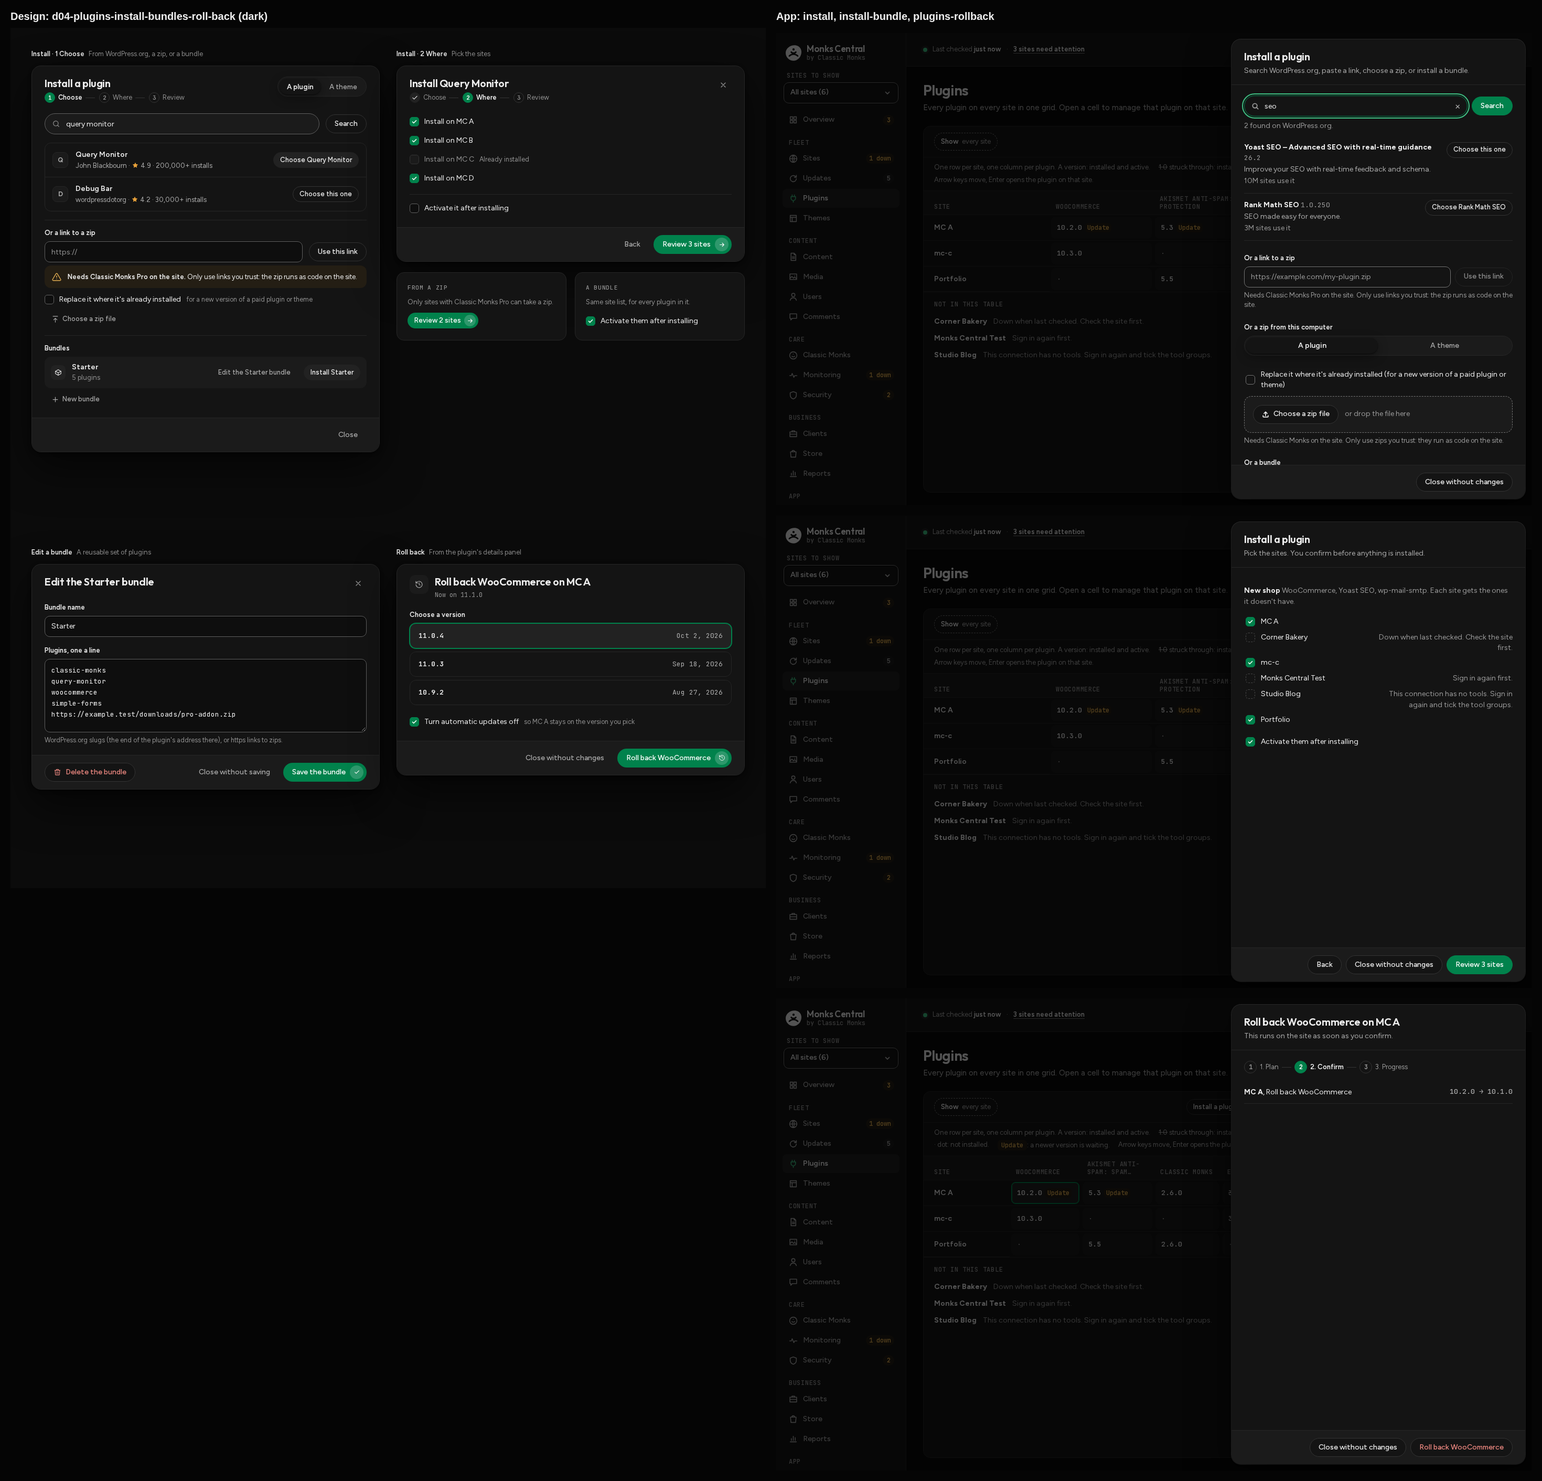
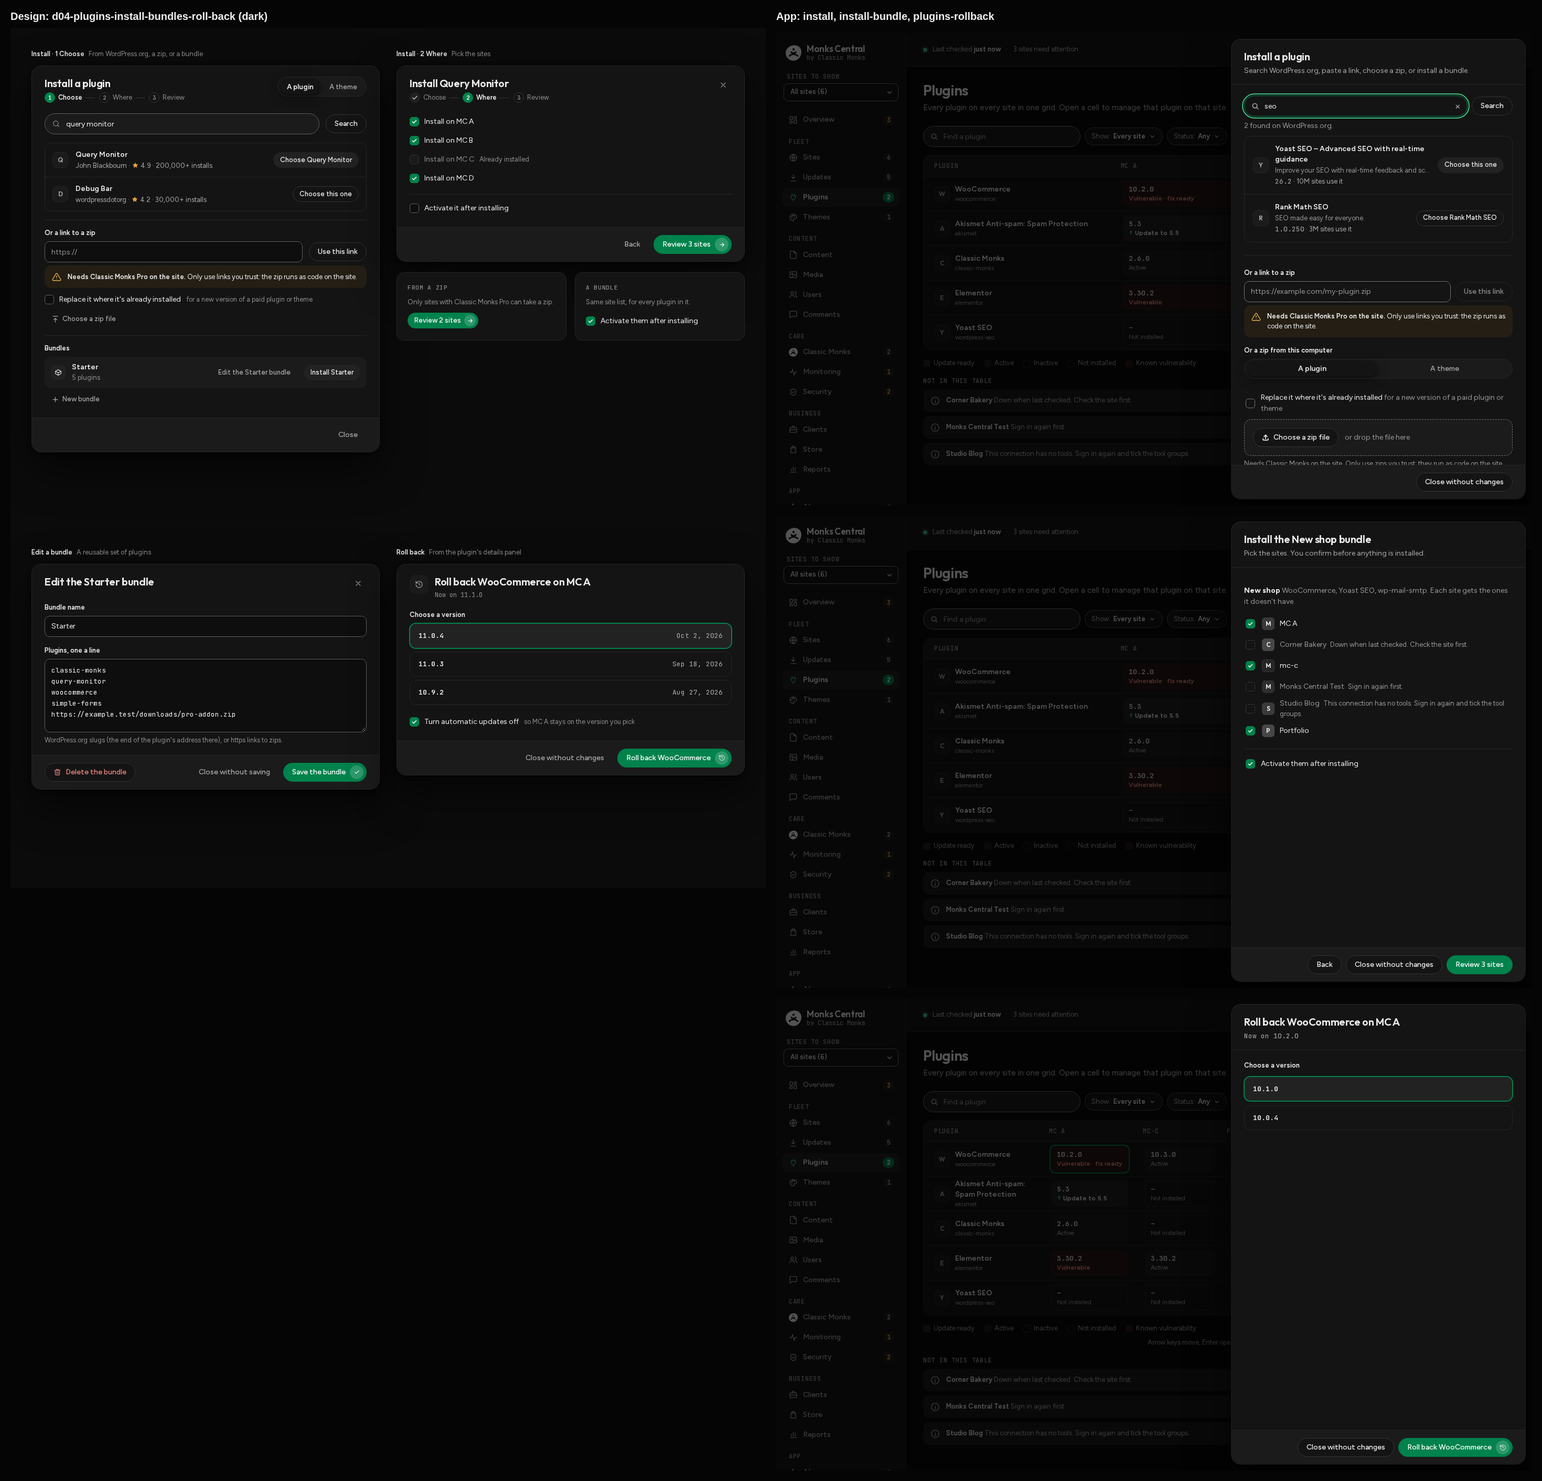
feat(ui): Install sheet contents like the design: result cards, warning note, bundle cards, site tiles

diff --git a/ui/src/screens/Install.tsx b/ui/src/screens/Install.tsx
@@ -1,10 +1,12 @@
 // SPDX-License-Identifier: GPL-3.0-or-later
 // Install a plugin from WordPress.org (search), a zip link, a zip on this computer
 // (plugin or theme, Classic Monks M8) or a bundle, on the sites you pick.
+import "../styles/screens/install.css";
 import { FilePicker, SearchInput } from "../components/controls";
 import { useEffect, useState } from "react";
 import { api, blocked, can, count, hasTool, type Bundle, type Found, type Site, type SiteInventory, type Staged } from "../api";
-import { Button } from "../components/ui";
+import { Button, Glyph } from "../components/ui";
+import { SiteTile } from "../components/SiteTile";
 import { toast } from "../components/feedback";
 import { Sheet } from "../components/Sheet";
 import type { PlanRow } from "../components/JobSheet";
@@ -105,8 +107,8 @@ function Bundles({ onPick }: { onPick: (b: Bundle) => void }) {
     setDeleting(false);
   };
   return (
-    <fieldset className="field" style={{ marginTop: 24 }}>
-      <legend>Or a bundle</legend>
+    <fieldset className="field">
+      <legend>Bundles</legend>
       {error && <p className="alert danger">{error}</p>}
       {editing ? (
         <>
@@ -120,29 +122,34 @@ function Bundles({ onPick }: { onPick: (b: Bundle) => void }) {
             <small>WordPress.org slugs (the end of the plugin's address there), or https links to zips.</small>
           </label>
           {deleting ? (
-            <div className="row">
+            <div className="row ins-acts">
               <span className="sum">Delete the {editing.name} bundle? Sites keep the plugins it installed.</span>
               <span className="grow" />
               <Button small onClick={() => setDeleting(false)}>
                 Keep it
               </Button>
               <Button small kind="danger" onClick={remove}>
+                <Glyph name="trash" />
                 Delete the bundle
               </Button>
             </div>
           ) : (
-            <div className="row">
+            <div className="row ins-acts">
               {editing.id > 0 && (
                 <Button small kind="danger" onClick={() => setDeleting(true)}>
+                  <Glyph name="trash" />
                   Delete the bundle
                 </Button>
               )}
               <span className="grow" />
-              <Button small onClick={() => setEditing(null)}>
+              <Button small className="ghost" onClick={() => setEditing(null)}>
                 Close without saving
               </Button>
-              <Button small kind="primary" disabled={!editing.name.trim() || !text.trim()} onClick={save}>
+              <Button small kind="primary" className="disc" disabled={!editing.name.trim() || !text.trim()} onClick={save}>
                 Save the bundle
+                <span className="btn-disc">
+                  <Glyph name="check" />
+                </span>
               </Button>
             </div>
           )}
@@ -150,24 +157,33 @@ function Bundles({ onPick }: { onPick: (b: Bundle) => void }) {
       ) : (
         <>
           {list.length === 0 && <p className="dim">A bundle installs several plugins in one go, like the ones every new shop gets.</p>}
-          <ul className="plain" aria-label="Bundles">
+          <ul className="ins-bundles" aria-label="Bundles">
             {list.map((b) => (
-              <li key={b.id} className="row">
-                <span className="grow">
-                  <b>{b.name}</b> <span className="dim">{b.plugins.map((p) => p.name || p.source.split("/").pop()).join(", ")}</span>
+              <li key={b.id}>
+                <span className="tile sm" aria-hidden="true">
+                  <Glyph name="package" />
                 </span>
-                <Button small aria-label={`Edit the ${b.name} bundle`} onClick={() => edit(b)}>
-                  Edit
+                <span className="grow">
+                  <b>{b.name}</b>
+                  <small>
+                    {b.plugins.length === 1 ? "1 plugin" : `${b.plugins.length} plugins`}: {b.plugins.map((p) => p.name || p.source.split("/").pop()).join(", ")}
+                  </small>
+                </span>
+                <Button small className="ghost" onClick={() => edit(b)}>
+                  Edit the {b.name} bundle
                 </Button>
-                <Button small onClick={() => onPick(b)}>
+                <Button small kind="soft" onClick={() => onPick(b)}>
                   Install {b.name}
                 </Button>
               </li>
             ))}
           </ul>
-          <Button small onClick={() => edit({ id: 0, name: "", plugins: [] })}>
-            New bundle
-          </Button>
+          <div>
+            <Button small className="ghost" onClick={() => edit({ id: 0, name: "", plugins: [] })}>
+              <Glyph name="plus" />
+              New bundle
+            </Button>
+          </div>
         </>
       )}
     </fieldset>
@@ -260,7 +276,7 @@ export function Install({ sites, inventory, onClose, onPlan }: Props) {
 
   return (
     <Sheet
-      title="Install a plugin"
+      title={pick ? (pick.bundle ? `Install the ${pick.name} bundle` : `Install ${pick.name}`) : "Install a plugin"}
       intro={pick ? "Pick the sites. You confirm before anything is installed." : "Search WordPress.org, paste a link, choose a zip, or install a bundle."}
       onClose={onClose}
       footer={
@@ -296,7 +312,7 @@ export function Install({ sites, inventory, onClose, onPlan }: Props) {
               value={query}
               onChange={(e) => setQuery(e.target.value)}
             />
-            <Button kind="primary" type="submit" disabled={searching || query.trim().length < 2}>
+            <Button type="submit" disabled={searching || query.trim().length < 2}>
               {searching ? "Searching…" : "Search"}
             </Button>
           </form>
@@ -304,22 +320,30 @@ export function Install({ sites, inventory, onClose, onPlan }: Props) {
             {found && `${found.length === 0 ? "Nothing found." : `${found.length} found on WordPress.org.`}`}
           </div>
           {found && found.length > 0 && (
-            <ul className="found" aria-label="Plugins found">
-              {found.map((f) => (
+            <ul className="ins-found" aria-label="Plugins found">
+              {found.map((f, i) => (
                 <li key={f.slug}>
-                  <div className="grow">
-                    <b>{f.name}</b> <span className="mono dim">{f.version}</span>
-                    <p>{f.summary}</p>
-                    <span className="dim">{count(f.active_installs)} sites use it</span>
-                  </div>
-                  <Button small onClick={() => choose({ source: f.slug, name: f.name, link: false })}>
+                  <span className="ptile" aria-hidden="true">
+                    {(f.name.match(/[\p{L}\p{N}]/u)?.[0] ?? "?").toUpperCase()}
+                  </span>
+                  <span className="grow">
+                    <b>{f.name}</b>
+                    <small className="cut" data-tip={f.summary}>
+                      {f.summary}
+                    </small>
+                    <small>
+                      <span className="mono">{f.version}</span> · <span>{count(f.active_installs)} sites use it</span>
+                    </small>
+                  </span>
+                  <Button small kind={i === 0 ? "soft" : undefined} onClick={() => choose({ source: f.slug, name: f.name, link: false })}>
                     Choose {f.name.length > 24 ? "this one" : f.name}
                   </Button>
                 </li>
               ))}
             </ul>
           )}
-          <label className="field" style={{ marginTop: 24 }}>
+          <hr className="ins-rule" />
+          <label className="field">
             <span>Or a link to a zip</span>
             <div className="row">
               <input
@@ -332,9 +356,14 @@ export function Install({ sites, inventory, onClose, onPlan }: Props) {
                 Use this link
               </Button>
             </div>
-            <small>Needs Classic Monks Pro on the site. Only use links you trust: the zip runs as code on the site.</small>
+            <span className="callout warning">
+              <Glyph name="alert" />
+              <span>
+                <b>Needs Classic Monks Pro on the site.</b> Only use links you trust: the zip runs as code on the site.
+              </span>
+            </span>
           </label>
-          <fieldset className="field" style={{ marginTop: 24 }}>
+          <fieldset className="field ins-zip">
             <legend>Or a zip from this computer</legend>
             <div className="segmented" role="group" aria-label="The zip holds">
               <button type="button" aria-pressed={zipKind === "plugin"} onClick={() => setZipKind("plugin")}>
@@ -346,11 +375,14 @@ export function Install({ sites, inventory, onClose, onPlan }: Props) {
             </div>
             <label className="row check">
               <input type="checkbox" checked={overwrite} onChange={(e) => setOverwrite(e.target.checked)} />
-              <span>Replace it where it's already installed (for a new version of a paid plugin or theme)</span>
+              <span>
+                Replace it where it's already installed <span className="dim">for a new version of a paid plugin or theme</span>
+              </span>
             </label>
             <FilePicker label="Choose a zip file" busy={reading ? "Reading the zip…" : undefined} accept=".zip,application/zip" disabled={reading} onFile={useZip} />
             <small>Needs Classic Monks on the site. Only use zips you trust: they run as code on the site.</small>
           </fieldset>
+          <hr className="ins-rule" />
           <Bundles onPick={(b) => choose({ bundle: b, name: b.name })} />
         </>
       ) : (
@@ -361,11 +393,11 @@ export function Install({ sites, inventory, onClose, onPlan }: Props) {
             {pick.zip && <span className="dim"> {pick.kind === "theme" ? "theme" : "plugin"}, {(pick.zip.size / 1048576).toFixed(1)} MB{pick.overwrite ? ", replaces an installed copy" : ""}</span>}
             {pick.bundle && <span className="dim"> {pick.bundle.plugins.map((p) => p.name || p.source).join(", ")}. Each site gets the ones it doesn't have.</span>}
           </p>
-          <ul className="plan-list" aria-label="Sites">
+          <ul className="ins-sites" aria-label="Sites">
             {sites.map((s) => {
               const why = cannot(s, inventory.get(s.id), pick);
               return (
-                <li key={s.id}>
+                <li key={s.id} className={why ? "no" : undefined}>
                   <button
                     type="button"
                     className="box"
@@ -382,13 +414,16 @@ export function Install({ sites, inventory, onClose, onPlan }: Props) {
                       })
                     }
                   />
-                  <span className="grow">{s.name}</span>
-                  {why && <span className="dim">{why}</span>}
+                  <SiteTile site={s} size="sm" />
+                  <span className="grow">
+                    {s.name}
+                    {why && <span className="dim"> {why}</span>}
+                  </span>
                 </li>
               );
             })}
           </ul>
-          <p className="row">
+          <p className="row ins-then">
             <button
               type="button"
               className="box"

diff --git a/ui/src/styles/screens/install.css b/ui/src/styles/screens/install.css
@@ -1,0 +1,33 @@
+/* SPDX-License-Identifier: GPL-3.0-or-later */
+/* Install a plugin (screens/Install.tsx, board D04): what sits inside the sheet. */
+.ins-rule { margin: var(--sp-5) 0; border: 0; border-top: 1px solid var(--line); }
+.ins-zip { margin-top: var(--sp-5); }
+.sheet .btn.ghost { border-color: transparent; background: transparent; color: var(--text-2); }
+.sheet .btn.ghost:hover:not(:disabled) { border-color: transparent; background: var(--panel); color: var(--text); }
+
+/* Plugins found: one card, a row each with the plugin's tile, its name and what it is */
+.ins-found { margin: 0; padding: 0; list-style: none; border: 1px solid var(--line); border-radius: 12px; }
+.ins-found li { display: grid; grid-template-columns: auto minmax(0, 1fr) auto; align-items: center; gap: var(--sp-3); padding: 14px var(--sp-4); border-top: 1px solid var(--line); }
+.ins-found li:first-child { border-top: 0; }
+.ins-found .grow { display: grid; gap: 2px; min-width: 0; }
+.ins-found b { font-weight: 600; }
+.ins-found small { font-size: var(--fs-sm); color: var(--text-2); }
+.ins-found small.cut { overflow: hidden; text-overflow: ellipsis; white-space: nowrap; color: var(--text-3); }
+.ins-found .mono { color: var(--text-2); }
+
+/* Bundles: a card in the well each, with its box tile */
+.ins-bundles { display: grid; gap: var(--sp-2); margin: 0 0 var(--sp-2); padding: 0; list-style: none; }
+.ins-bundles li { display: flex; flex-wrap: wrap; align-items: center; gap: var(--sp-2) var(--sp-3); padding: var(--sp-3); border-radius: 12px; background: var(--panel); }
+.ins-bundles .grow { display: grid; gap: 2px; flex: 1 1 160px; min-width: 0; }
+.ins-bundles b { font-weight: 600; }
+.ins-bundles small { font-size: var(--fs-sm); color: var(--text-2); overflow-wrap: anywhere; }
+.ins-acts { flex-wrap: wrap; margin-top: var(--sp-2); }
+
+/* Where: a site's box, its tile and name; a site that can't take it says why */
+.ins-sites { display: grid; gap: var(--sp-1); margin: 0; padding: 0; list-style: none; }
+.ins-sites li { display: flex; align-items: center; gap: 10px; min-height: 36px; }
+.ins-sites .grow { flex: 1; min-width: 0; }
+.ins-sites .dim { margin-left: var(--sp-1); font-size: var(--fs-sm); }
+.ins-sites li.no { color: var(--text-3); }
+.field > .callout { font-weight: 400; }
+.ins-then { margin: var(--sp-4) 0 0; padding-top: var(--sp-4); border-top: 1px solid var(--line); gap: 10px; }

diff --git a/ui/src/screens/Phase7Install.test.tsx b/ui/src/screens/Phase7Install.test.tsx
@@ -105,7 +105,7 @@ test("bundles are made and edited in the sheet", async () => {
   const calls = core();
   render(<Install sites={[A]} inventory={INV} onClose={vi.fn()} onPlan={vi.fn()} />);
   fireEvent.click(await screen.findByRole("button", { name: "Edit the New shop bundle" }));
-  const box = screen.getByRole("group", { name: "Or a bundle" });
+  const box = screen.getByRole("group", { name: "Bundles" });
   expect(within(box).getByRole("textbox", { name: /^Plugins, one a line/ })).toHaveValue("woocommerce\nwp-mail-smtp");
   fireEvent.change(within(box).getByRole("textbox", { name: /^Plugins, one a line/ }), { target: { value: "woocommerce\nakismet" } });
   fireEvent.click(within(box).getByRole("button", { name: "Save the bundle" }));
@@ -127,7 +127,7 @@ test("deleting a bundle asks first, and a failed delete keeps it open", async ()
   });
   render(<Install sites={[A]} inventory={INV} onClose={vi.fn()} onPlan={vi.fn()} />);
   fireEvent.click(await screen.findByRole("button", { name: "Edit the New shop bundle" }));
-  const box = screen.getByRole("group", { name: "Or a bundle" });
+  const box = screen.getByRole("group", { name: "Bundles" });
   fireEvent.click(within(box).getByRole("button", { name: "Delete the bundle" }));
   expect(calls.some((c) => c[0] === "bundle_delete")).toBe(false);
   expect(within(box).getByText(/Delete the New shop bundle\?/)).toBeInTheDocument();

diff --git a/docs/design/redesign/audit/d04-plugins-install.md b/docs/design/redesign/audit/d04-plugins-install.md
@@ -1,0 +1,20 @@
+| Page | Section | Design | App (before) | Fix | Status |
+|---|---|---|---|---|---|
+| D04 Install | Sheet chrome (head, steps, foot) | Title, numbered steps, "A plugin / A theme" in the head, footer actions | Title, intro, footer | Owned by the Sheet agent; only the title now names the pick ("Install Rank Math SEO", "Install the New shop bundle") | kept: Sheet chrome is another agent's |
+| D04 Install | Head: A plugin / A theme | Segmented choice in the sheet head for the whole install | The choice sits with the zip, where it applies | Left with the zip | kept: only a zip can hold a theme; search and links are WordPress.org plugins |
+| D04 Install | Search | Search pill and a secondary "Search" pill | Primary "Search" | `SearchInput` + secondary button | done |
+| D04 Install | Results | One bordered card, a row per plugin: letter tile, bold name, "author · ★ 4.9 · 200,000+ installs", "Choose …" soft for the first, secondary for the rest | Plain rows: name, version, summary paragraph, installs | `.ins-found` card rows: `.ptile`, name, the summary cut to one line (full text in the tip), mono version · "10M sites use it"; first Choose is `soft` | done |
+| D04 Install | Results: author and rating | Author and star rating | — | Version and installs shown instead | kept: the core's WordPress.org search returns no author or rating |
+| D04 Install | Link to a zip | Label, field, "Use this link", then a warning note "Needs Classic Monks Pro on the site. Only use links you trust…" | Small grey help line | `.callout.warning` with the `alert` glyph, the first sentence bold | done |
+| D04 Install | Zip from this computer | "Replace it where it's already installed" with a quiet "for a new version of a paid plugin or theme", a ghost "Choose a zip file" | Bracketed help in the label; the kit's file picker | Quiet trailing words; the kit's `FilePicker` (drop area) kept | kept: the file picker is the shared kit control (docs/ux/README.md, no native controls) |
+| D04 Install | Sections | Hairlines between search, link and bundles | 24px gaps | `hr.ins-rule` before the link and before Bundles | done |
+| D04 Install | Bundles | "Bundles" label; a card in the well: box tile, name, "5 plugins", ghost "Edit the Starter bundle", soft "Install Starter"; ghost "+ New bundle" | "Or a bundle" legend; name and plugin names on one line, "Edit" (named by aria-label) and "Install …" pills | `.ins-bundles` cards: `tile sm` with `package`, name, "N plugins: names", visible "Edit the … bundle" (ghost), soft "Install …", ghost "New bundle" with plus | done |
+| D04 Edit a bundle | Layout | Its own dialog "Edit the Starter bundle" | Edited in place in the Install sheet | Kept in place | kept: the sheet holds the edit so the bundle list and install stay one step; fields and buttons styled to the dialog |
+| D04 Edit a bundle | Buttons | Delete the bundle (danger, trash) left; "Close without saving" ghost; "Save the bundle" primary with a check disc | Small pills | Danger with `trash`, ghost, primary `.disc` with `check` | done |
+| D04 Install · Where | Site list | Checkbox rows "Install on MC A"; a site that can't take it greyed with "Already installed" beside the name; a hairline, then "Activate it after installing" | Box, name, reason pushed right | `.ins-sites`: box, `SiteTile sm`, name with the reason beside it, greyed when it can't; hairline above the activate box | done |
+| D04 Install · Where | Zip / bundle notes | Two side cards: "From a zip: only sites with Classic Monks Pro…", "A bundle: same site list…" | Reasons per site, bundle contents above the list | Per-site reasons kept | kept: the cards annotate the board; the app says the same on each site's row |
+| D04 Roll back | Where | A dialog "Roll back WooCommerce on MC A", "Now on 11.1.0" | An inline list in the inspector with a "Roll back to X" button per version | `RollBack` sheet opened by "Choose an older version"; then the job sheet confirms it as a risky change (unchanged) | done |
+| D04 Roll back | Versions | "Choose a version": rows with the mono version, the chosen one tinted with a green edge | Danger pills | Radio rows (`role="radiogroup"`, the first older stable release chosen), `.mx-vers` | done |
+| D04 Roll back | Version dates | A date on each row | — | No dates | kept: the site's version list (`list-plugin-versions`) has no release dates |
+| D04 Roll back | Automatic updates | "Turn automatic updates off so MC A stays on the version you pick", ticked | — | Shown when automatic updates are on for the plugin there and the connection can change them; adds "Turn automatic updates off" before the roll back in the plan | done |
+| D04 Roll back | Footer | "Close without changes", primary "Roll back WooCommerce" with a disc | — | Same, the disc holds the `history` glyph | done |
